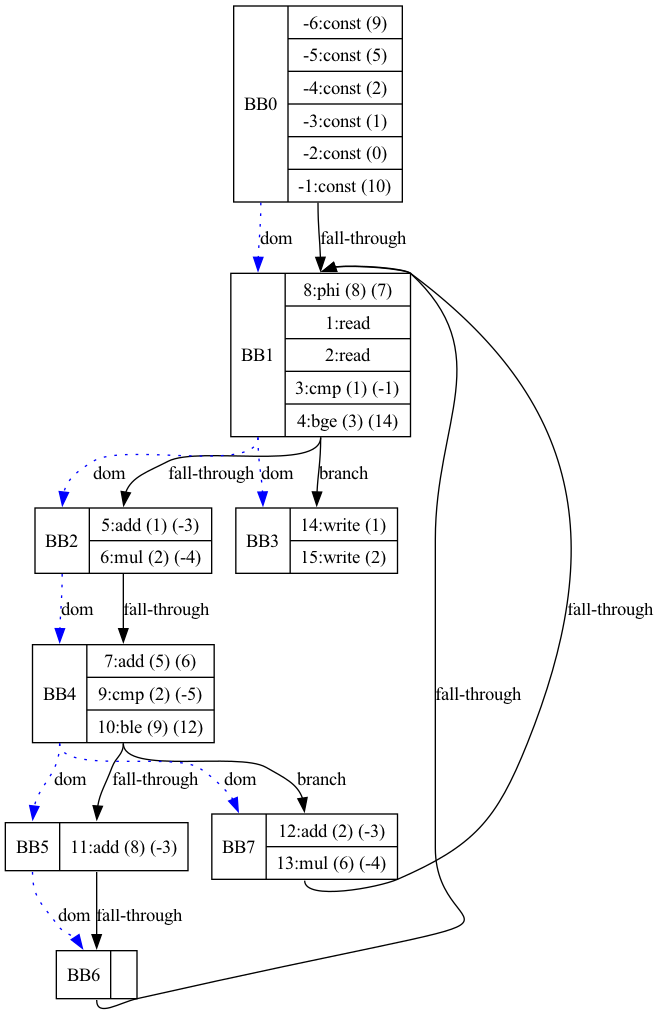
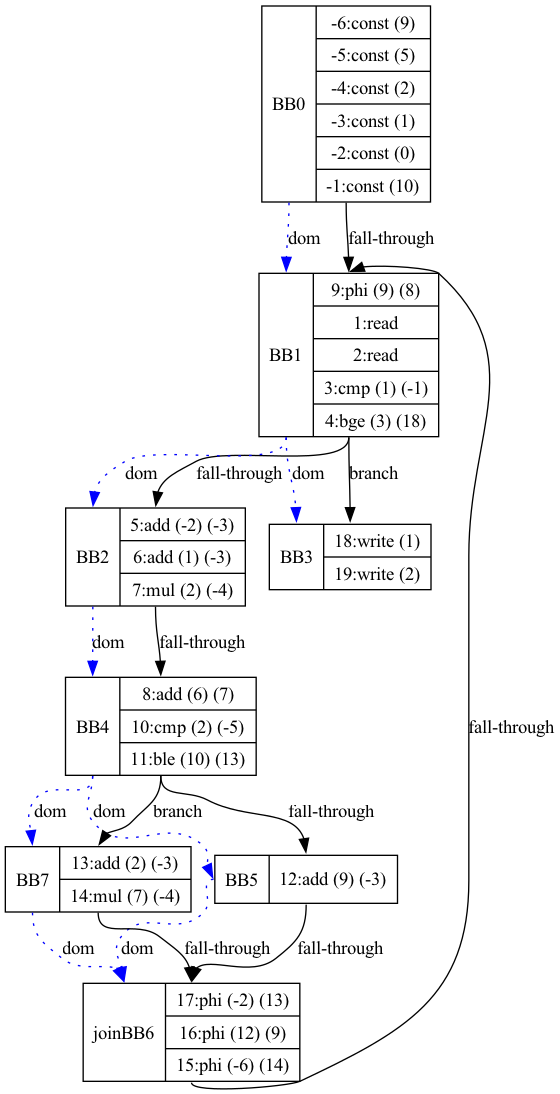
todo - ensure phi-instructions, multi-nesting

diff --git a/src/Parser.cpp b/src/Parser.cpp
@@ -954,28 +954,21 @@ SSA* Parser::p2_ifStatement() {
     this->currBB = this->currBB->child;
 
     BasicBlock *join_blk = nullptr;
-    join_blk = new BasicBlock(this->currBB->varVals);
+    join_blk = new BasicBlock(this->currBB->varVals, false, true);
 
     #ifdef DEBUG
         std::cout << "created new BB (join), looks like: " << std::endl << join_blk->toString() << std::endl;
     #endif
 
+    then_blk->child = join_blk;
+    join_blk->parent = then_blk;
     // [11.04.2024]: new; note - [then_blk->child = (old) if_parent->child]
-    if (!hasChild) {
-        // [10.24.2024]: ?
-        then_blk->child = join_blk;
-        join_blk->parent = then_blk;
-    } else {
+    if (hasChild) {
         #ifdef DEBUG
             std::cout << "moved existing child back (to create new BB)" << std::endl;
         #endif
-        then_blk->child = join_blk;
-        join_blk->parent = then_blk;
         join_blk->child2 = og_child;
-        // og_child->parent2 = join_blk;
         if_parent->child2 = join_blk;
-
-        // then_blk->child2 = og_child;
 
         if (og_child->parent == if_parent) {
             og_child->parent = join_blk;
@@ -1018,6 +1011,20 @@ SSA* Parser::p2_ifStatement() {
                 std::cout << "nullptr!" << std::endl;
             }
         #endif
+
+        for (const auto &p : if_parent->varVals) {
+            // if a ident from [if_parent] exists in [then_blk] with a different value, we need a phi
+            if (then_blk->varVals.at(p.first) != p.second) {
+                    SSA *phi_instr = this->addSSA1(6, BasicBlock::ssa_table.at(p.second), BasicBlock::ssa_table.at(then_blk->varVals.at(p.first)), true);
+                    #ifdef DEBUG
+                        std::cout << "phi_instr: " << phi_instr->toString() << std::endl;
+                    #endif
+                    
+                    // [10.28.2024]: Update BasicBlock's VV
+                    int phi_table_int = this->add_SSA_table(phi_instr);
+                    this->currBB->varVals.insert_or_assign(p.first, phi_table_int);
+            }
+        }
         
         //[10.21.2024]: Isn't this actually the first instruction?
         return jmp_instr;
@@ -1039,12 +1046,12 @@ SSA* Parser::p2_ifStatement() {
     if_parent->child2 = else_blk;
     else_blk->parent = if_parent;
     else_blk->child = join_blk;
+    join_blk->parent2 = else_blk;
 
     #ifdef DEBUG
         std::cout << "\tset [else_blk]->child = join_blk; join_blk looks like: " << join_blk->toString() << std::endl;
     #endif
 
-    join_blk->parent2 = else_blk;
     
     // [11.08.2024]: shouldn't need condition here cause we handle above, right?
     // if (!hasChild) {
@@ -1064,19 +1071,27 @@ SSA* Parser::p2_ifStatement() {
     this->CheckFor(Result(2, 21)); // check `fi`
 
     // 11.04.2024::6:57;
-    if (!hasChild) {
+    // if (!hasChild) {
         // join_blk->parent = then_blk; // [10.24.2024]: already did this earlier
-        join_blk->parent2 = else_blk;
-        then_blk->child = join_blk;
-        else_blk->child = join_blk;
-    
-        this->currBB = join_blk;
-    } else {
-        og_child->parent2 = else_blk;
-        // then_blk->child = og_child; [this is already done earlier]
-        else_blk->child = og_child;
-        
-        this->currBB = og_child;
+    join_blk->parent2 = else_blk;
+    then_blk->child = join_blk;
+    else_blk->child = join_blk;
+
+    this->currBB = join_blk;
+
+    // [SECTION A]: check if we need to create phi-instrs
+    for (const auto &p : if_parent->varVals) {
+        // if a ident from [if_parent] exists in [then_blk] with a different value, we need a phi
+        if (then_blk->varVals.at(p.first) != else_blk->varVals.at(p.first)) {
+                SSA *phi_instr = this->addSSA1(6, BasicBlock::ssa_table.at(then_blk->varVals.at(p.first)), BasicBlock::ssa_table.at(else_blk->varVals.at(p.first)), true);
+                #ifdef DEBUG
+                    std::cout << "phi_instr: " << phi_instr->toString() << std::endl;
+                #endif
+                
+                // [10.28.2024]: Update BasicBlock's VV
+                int phi_table_int = this->add_SSA_table(phi_instr);
+                this->currBB->varVals.insert_or_assign(p.first, phi_table_int);
+        }
     }
 
     return jmp_instr; // [11.07.2024]: ?

diff --git a/src/BasicBlock.cpp b/src/BasicBlock.cpp
@@ -11,7 +11,7 @@ std::unordered_map<SSA *, int> BasicBlock::ssa_table_reversed = {};
 
 
 // [10.22.2024]: Revised?
-BasicBlock::BasicBlock(bool isConst)
+BasicBlock::BasicBlock(bool isConst, bool isJoin)
 {
     #ifdef DEBUG
         std::cout << "in BasicBlock(isConst=" << isConst << ")" << std::endl;
@@ -33,6 +33,7 @@ BasicBlock::BasicBlock(bool isConst)
     }
     this->newInstrs = {};
     this->varVals = {};
+    this->join = isJoin;
 
     // #ifdef DEBUG
     //     std::cout << "new BasicBlock; got [instrList; size=" << this->instrList.size() << ", " << instrLst.size() << "] looks like:" << std::endl;
@@ -43,7 +44,7 @@ BasicBlock::BasicBlock(bool isConst)
     #endif
 }
 
-BasicBlock::BasicBlock(std::unordered_map<int, int> DOM_vv_map, bool isConst)
+BasicBlock::BasicBlock(std::unordered_map<int, int> DOM_vv_map, bool isConst, bool isJoin)
 {
     this->blockNum = debugNum++;
 
@@ -61,6 +62,7 @@ BasicBlock::BasicBlock(std::unordered_map<int, int> DOM_vv_map, bool isConst)
         this->constPtr = nullptr;
     }
     this->newInstrs = {};
+    this->join = isJoin;
 
     #ifdef DEBUG
         std::cout << "new BasicBlock; got [varVals: size=" << this->varVals.size() << "] looks like:" << std::endl;
@@ -71,7 +73,7 @@ BasicBlock::BasicBlock(std::unordered_map<int, int> DOM_vv_map, bool isConst)
     //     this->printInstrList();
     // #endif
 }
-BasicBlock::BasicBlock(BasicBlock *p1, BasicBlock *p2, std::unordered_map<int, int> DOM_vv_map)
+BasicBlock::BasicBlock(BasicBlock *p1, BasicBlock *p2, std::unordered_map<int, int> DOM_vv_map, bool isJoin)
 {
     this->blockNum = debugNum++;
 
@@ -86,6 +88,7 @@ BasicBlock::BasicBlock(BasicBlock *p1, BasicBlock *p2, std::unordered_map<int, i
     this->constPtr = nullptr;
 
     this->newInstrs = {};
+    this->join = isJoin;
 
     #ifdef DEBUG
         std::cout << "new BasicBlock; got [varVals: size=" << this->varVals.size() << "] looks like:" << std::endl;

diff --git a/src/BasicBlock.hpp b/src/BasicBlock.hpp
@@ -25,9 +25,9 @@ public:
 
 
     // [10.22.2024]: Revised slightly to try without [instrLis]?
-    BasicBlock(bool isConst = false);
-    BasicBlock(std::unordered_map<int, int> DOM_vv_map, bool isConst = false);
-    BasicBlock(BasicBlock *p1, BasicBlock *p2, std::unordered_map<int, int> DOM_vv_map);
+    BasicBlock(bool isConst = false, bool isJoin = false);
+    BasicBlock(std::unordered_map<int, int> DOM_vv_map, bool isConst = false, bool isJoin = false);
+    BasicBlock(BasicBlock *p1, BasicBlock *p2, std::unordered_map<int, int> DOM_vv_map, bool isJoin = false);
 
     ~BasicBlock() {
         #ifdef DEBUG
@@ -132,6 +132,7 @@ public:
 
     Node *constPtr;
 
+    bool join;
     int blockNum;
     static int debugNum;
 

diff --git a/src/Parser.hpp b/src/Parser.hpp
@@ -560,7 +560,11 @@ public:
     inline std::string generateBlocks(BasicBlock *curr, std::string res, std::vector<BasicBlock *>blocksSeen) {
         blocksSeen.push_back(curr);
 
-        res += "\tbb" + std::to_string(curr->blockNum) + " [shape=record, label=\"<b>" + curr->toDOT() + "\"];\n";
+        if (curr->join) {
+            res += "\tbb" + std::to_string(curr->blockNum) + " [shape=record, label=\"<b>join\n" + curr->toDOT() + "\"];\n";
+        } else {
+            res += "\tbb" + std::to_string(curr->blockNum) + " [shape=record, label=\"<b>" + curr->toDOT() + "\"];\n";
+        }
         #ifdef DEBUG
             std::cout << "updated res: " << res << std::endl << std::endl;
         #endif
